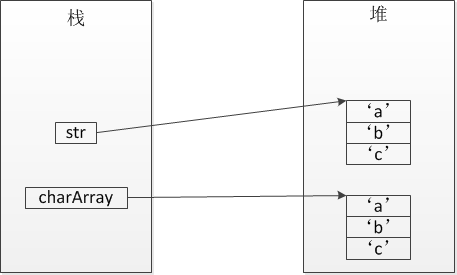
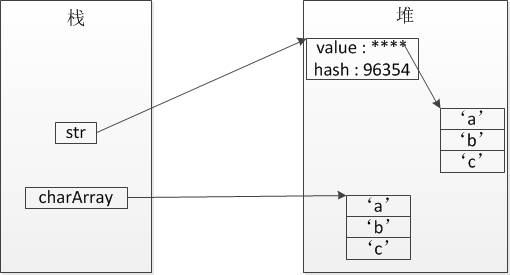
描述：新增以char数组为参数的构造方法-内存分析.png 作者：hxx

diff --git a/java8-source-learn-lang/src/test/java/com/mervyn/StringTest.java b/java8-source-learn-lang/src/test/java/com/mervyn/StringTest.java
@@ -11,4 +11,10 @@ public class StringTest {
         Assert.assertFalse(emptyStr == emptyStrCreatedByConstruct);
         Assert.assertTrue(emptyStr.equals(emptyStrCreatedByConstruct));
     }
+
+    @Test
+    public void testString2 () {
+        char[] charArray = {'a','b','c'};
+        String str = new String(charArray);
+    }
 }

diff --git a/document/java8-source-learn-lang/String源码解析.md b/document/java8-source-learn-lang/String源码解析.md
@@ -20,4 +20,10 @@
     public String(char value[]) {
        this.value = Arrays.copyOf(value, value.length);
     }
-该构造方法将char数组value复制一份（而不是将value的引用复制一份），构造出一个新的String的对象。
+该构造方法将char数组value复制一份（而不是将value的引用复制一份），构造出一个新的String的对象。通过下面的测试用例和内存分析图来说明：
+
+    @Test
+    public void testString2 () {
+        char[] charArray = {'a','b','c'};
+        String str = new String(charArray);
+    }
